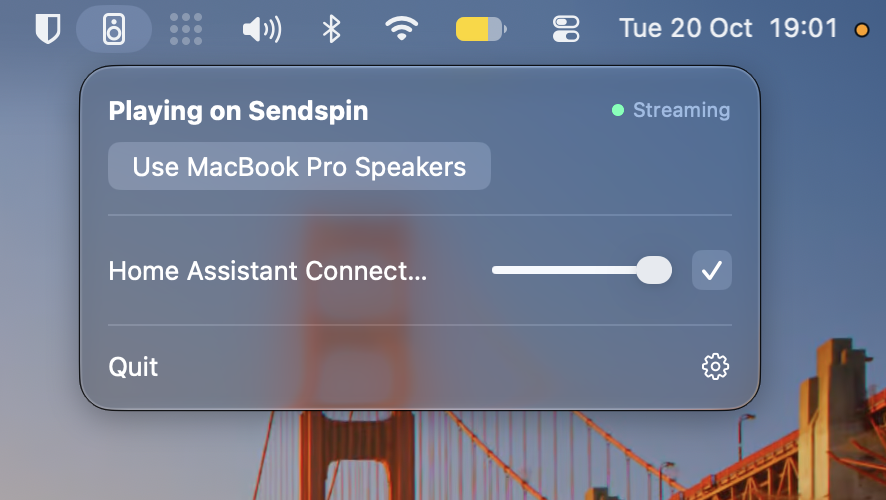
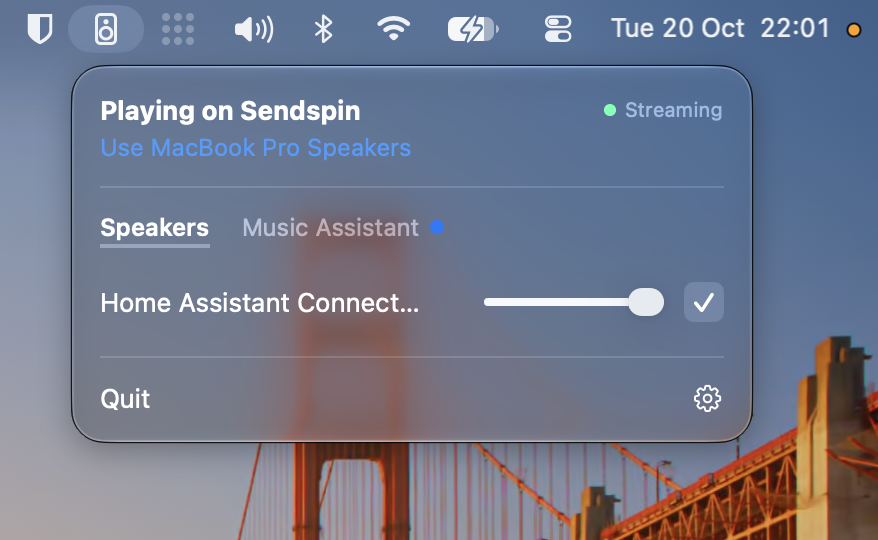
README and TODO: Music Assistant
The README covers the Music Assistant tab for people who already run
it, how the source side works, and the new screenshot. The TODO moves
playing through Music Assistant to Done, notes that the client side of
the token pairing exists, and keeps Music Assistant controls and the
6-digit pairing code for later.

diff --git a/README.md b/README.md
@@ -12,7 +12,7 @@ bit-perfect playback is finally possible on your Mac.
 macOS Audio for Sendspin adds an output device named **Sendspin**, plus a menu bar app to
 choose speakers and control their volume:
 
-<img src="docs/menu.png" width="443" alt="The speaker icon in the menu bar, with its menu open: Playing on Sendspin, streaming, with a button to switch back to the MacBook Pro Speakers, and a Home Assistant Connect AUX-2 ticked with its volume slider.">
+<img src="docs/menu.png" width="439" alt="The speaker icon in the menu bar, with its menu open: Playing on Sendspin, streaming, with a link to use the MacBook Pro Speakers instead; below it the Speakers and Music Assistant tabs, with a dot on Music Assistant, and a Home Assistant Connect AUX-2 ticked with its volume slider.">
 
 > Sendspin is a protocol of the Open Home Foundation;
 > this project is not affiliated with or endorsed by it.
@@ -35,8 +35,13 @@ release candidate in October 2026). Sendspin's own site keeps
   [the Sendspin daemon](https://github.com/Sendspin/sendspin-cli), from a release built on
   aiosendspin 10 or later (8.0.0 isn't yet).
 
-AirPlay and Chromecast speakers that Music Assistant bridges to Sendspin don't work currently:
-those bridges live inside Music Assistant and Music Assistant support is pending.
+### Already running Music Assistant?
+
+Then the menu gets a second tab, **Music Assistant**. Pair this Mac once with the token the tab
+offers, and Music Assistant can play the Mac's audio on any of its speakers and groups,
+AirPlay, Chromecast and Sonos included: select this Mac as an input source there. Music
+Assistant chooses the speakers and the volume, and it isn't in sync with the speakers on the
+**Speakers** tab, so the Mac plays to one or the other.
 
 ## Install
 
@@ -79,12 +84,13 @@ apps ─► "Sendspin" output device (Driver/, HAL plug-in)
            │ loopback, same host clock
            ▼
         menu bar app (App/) ── SendspinServerKit (Packages/) ── ws:// ──► speakers
+                                         └── ws:// ──► Music Assistant (as a source)
 ```
 
 | Path | What |
 | --- | --- |
 | `Driver/` | Audio Server plug-in on libASPL: the loopback device, with volume/mute and a reported latency. |
-| `Packages/SendspinServerKit/` | Sendspin server in Swift (`SendspinServerKit`), CoreAudio capture and device control (`SendspinAudio`), and the `sendspin-bridge` CLI. |
+| `Packages/SendspinServerKit/` | Sendspin server, and client with the source role, in Swift (`SendspinServerKit`); CoreAudio capture and device control (`SendspinAudio`); and the `sendspin-bridge` CLI (`--source` makes it a source for Music Assistant). |
 | `App/` | SwiftUI menu bar app (XcodeGen project). It carries the driver and installs it itself. |
 | `Release/` | Builds the disk image; signs and notarizes it for releases. |
 
@@ -162,7 +168,8 @@ Release/build-dmg.sh
   connection, and it comes back unticked when it reconnects.
 - **Device.** Audio played to *Sendspin* is looped back to the device's input, sample-exact.
   Its volume and mute controls aren't applied to the audio: the app forwards them to the
-  speakers, so the volume keys and Control Center control the speakers.
+  speakers, so the volume keys and Control Center control the speakers (on the Speakers tab;
+  with Music Assistant, its own volume applies).
 - **Timing.** Each captured block is scheduled at its capture host time plus the *speaker
   buffer* (300 ms / 600 ms / 1 s), or more when a connected speaker asks for it
   (its `min_buffer_ms` plus `output_delay_ms`; Settings then shows why). Capture timestamps equal the output timestamps apps see
@@ -183,6 +190,16 @@ Release/build-dmg.sh
   with the next sound.
 - **Volume.** Group volume is the speakers' average. Changing it shifts every speaker
   equally, so their relative balance is kept (the same algorithm as aiosendspin).
+- **Music Assistant.** The app is also a Sendspin client with the `source@v1` role: it
+  advertises `_sendspin._tcp` (port 8928, or a free one) with its own Curve25519 identity, and
+  Music Assistant connects to it. Pairing uses the Pairing PSK method: the token
+  (`SP:0…`) carries the client key and a pairing PSK, and the long-term keys of up to 5
+  servers are kept in the Keychain (Settings → Forget unpairs). Clock sync is the Sendspin
+  time filter (a 2D Kalman filter) over bursts of `client/time`. When Music Assistant asks, the
+  Mac streams FLAC at the device's rate in 16 bit, 20 ms chunks stamped with their capture
+  time in the server's clock, and reports `signal: present` while there's sound, so Music
+  Assistant can start it automatically. On the Speakers tab it sends silence instead: the
+  stream stays open, like a quiet line-in, and resumes when Music Assistant is chosen again.
 
 Hidden settings (`defaults write eu.vooijs.MacOSAudioForSendspin …`, or `….dev` for a dev build):
 - `manualPlayers`: an array of `ws://host:port/path` URLs, for speakers mDNS can't find;
@@ -190,7 +207,9 @@ Hidden settings (`defaults write eu.vooijs.MacOSAudioForSendspin …`, or `….d
 
 ## Status
 
-Implements Sendspin 1 (release candidate) with unpaired access, tested against aiosendspin
-10.2.1 and an HA Connect AUX-2 (firmware 2026.10.2). The pre-1.0 unencrypted protocol isn't
-supported. Speakers that only admit paired servers show "Needs pairing". Not yet done:
-pairing, Opus, and a test of 44.1 kHz-only speakers (the resampler should already handle them).
+Implements Sendspin 1 (release candidate): as a server with unpaired access, and as a client
+with the source role, paired with the pairing token. Tested against aiosendspin 10.2.1, Music
+Assistant 2.10.7 and an HA Connect AUX-2 (firmware 2026.10.2). The pre-1.0 unencrypted protocol
+isn't supported. Speakers that only admit paired servers show "Needs pairing". Not yet done:
+pairing with speakers (the server side), Opus, and a test of 44.1 kHz-only speakers (the
+resampler should already handle them).

diff --git a/TODO.md b/TODO.md
@@ -8,7 +8,9 @@ speakers just as easily. If AirPlay doesn't make the user do something, this app
 1. **Pairing.** Servers must implement all three methods: the pairing PSK token (`SP:0…`), the
    static and the dynamic pairing code (CPace). Playback works unpaired today (Noise on the
    Sentinel PSK, allowed by ticking the speaker), and speakers that only admit paired servers
-   show "Needs pairing". Not started; deliberately left until a speaker needs it.
+   show "Needs pairing". Deliberately left until a speaker needs it. The client side of the
+   Pairing PSK method exists (the Music Assistant tab): the token, `client/pair-init` and
+   `-finalize`, the pairing records and the re-handshake to the new key. CPace is still to do.
 2. **The other roles.** "All servers MUST implement all versions of these roles": besides
    `player`, that's `controller` (play/pause/next, group volume by the spec's algorithm,
    `switch`), `metadata` and `artwork` (what's playing; needs macOS's Now Playing info),
@@ -27,15 +29,10 @@ speakers just as easily. If AirPlay doesn't make the user do something, this app
    is slow (for minutes after many restarts without a reboot), that freezes the menu.
 5. **README for end users.** Install and the screenshot lead now; the protocol, build and
    `defaults write` details should move to a "For developers" section.
-6. **Play through Music Assistant** (for people who already run it). The Mac becomes a Sendspin
-   client with the `source@v1` role, and MA shows it as a Live Input that it can play on any of
-   its players, so the app stops competing with MA for the same speakers. MA starts the stream
-   (`start` → `client-stream/start` → type-12 chunks of at most 150 ms; FLAC at 48 kHz/16-bit is
-   enough), and reporting `signal: present` while the Mac plays lets MA start it automatically.
-   New: the client side (advertise `_sendspin._tcp` and skip ourselves when browsing, Noise as
-   responder, `client/hello`, the time filter and capture times in server time) and client-side
-   pairing, because MA only admits paired sources. Do it after pairing (1), which shares the
-   CPace code. MA's buffering adds latency, so direct playback stays the default.
+6. **More on the Music Assistant tab.** Show and control what Music Assistant does with the
+   Mac's input (where it plays, its volume, stop): a source can't, so this needs Music
+   Assistant's own API. And pairing with the 6-digit dynamic pairing code instead of the token,
+   once pairing (1) has CPace.
 
 ## Audio: recommended or optional
 
@@ -57,5 +54,6 @@ speakers just as easily. If AirPlay doesn't make the user do something, this app
 Done: the signed, notarized disk image with a welcome window that installs the driver (each
 `v*` tag builds a draft release), the AirPlay-style speaker list, FLAC, Sendspin 1 over Noise,
 client-initiated connections (speakers that connect to us wait, unticked, until allowed), a
-notice when Local Network access is denied, opening at login, and speakers that leave the
-group (unavailable or `client/leave`) staying out until the user ticks them again.
+notice when Local Network access is denied, opening at login, speakers that leave the
+group (unavailable or `client/leave`) staying out until the user ticks them again, and playing
+through Music Assistant (the Mac as a paired source, on its own tab).
